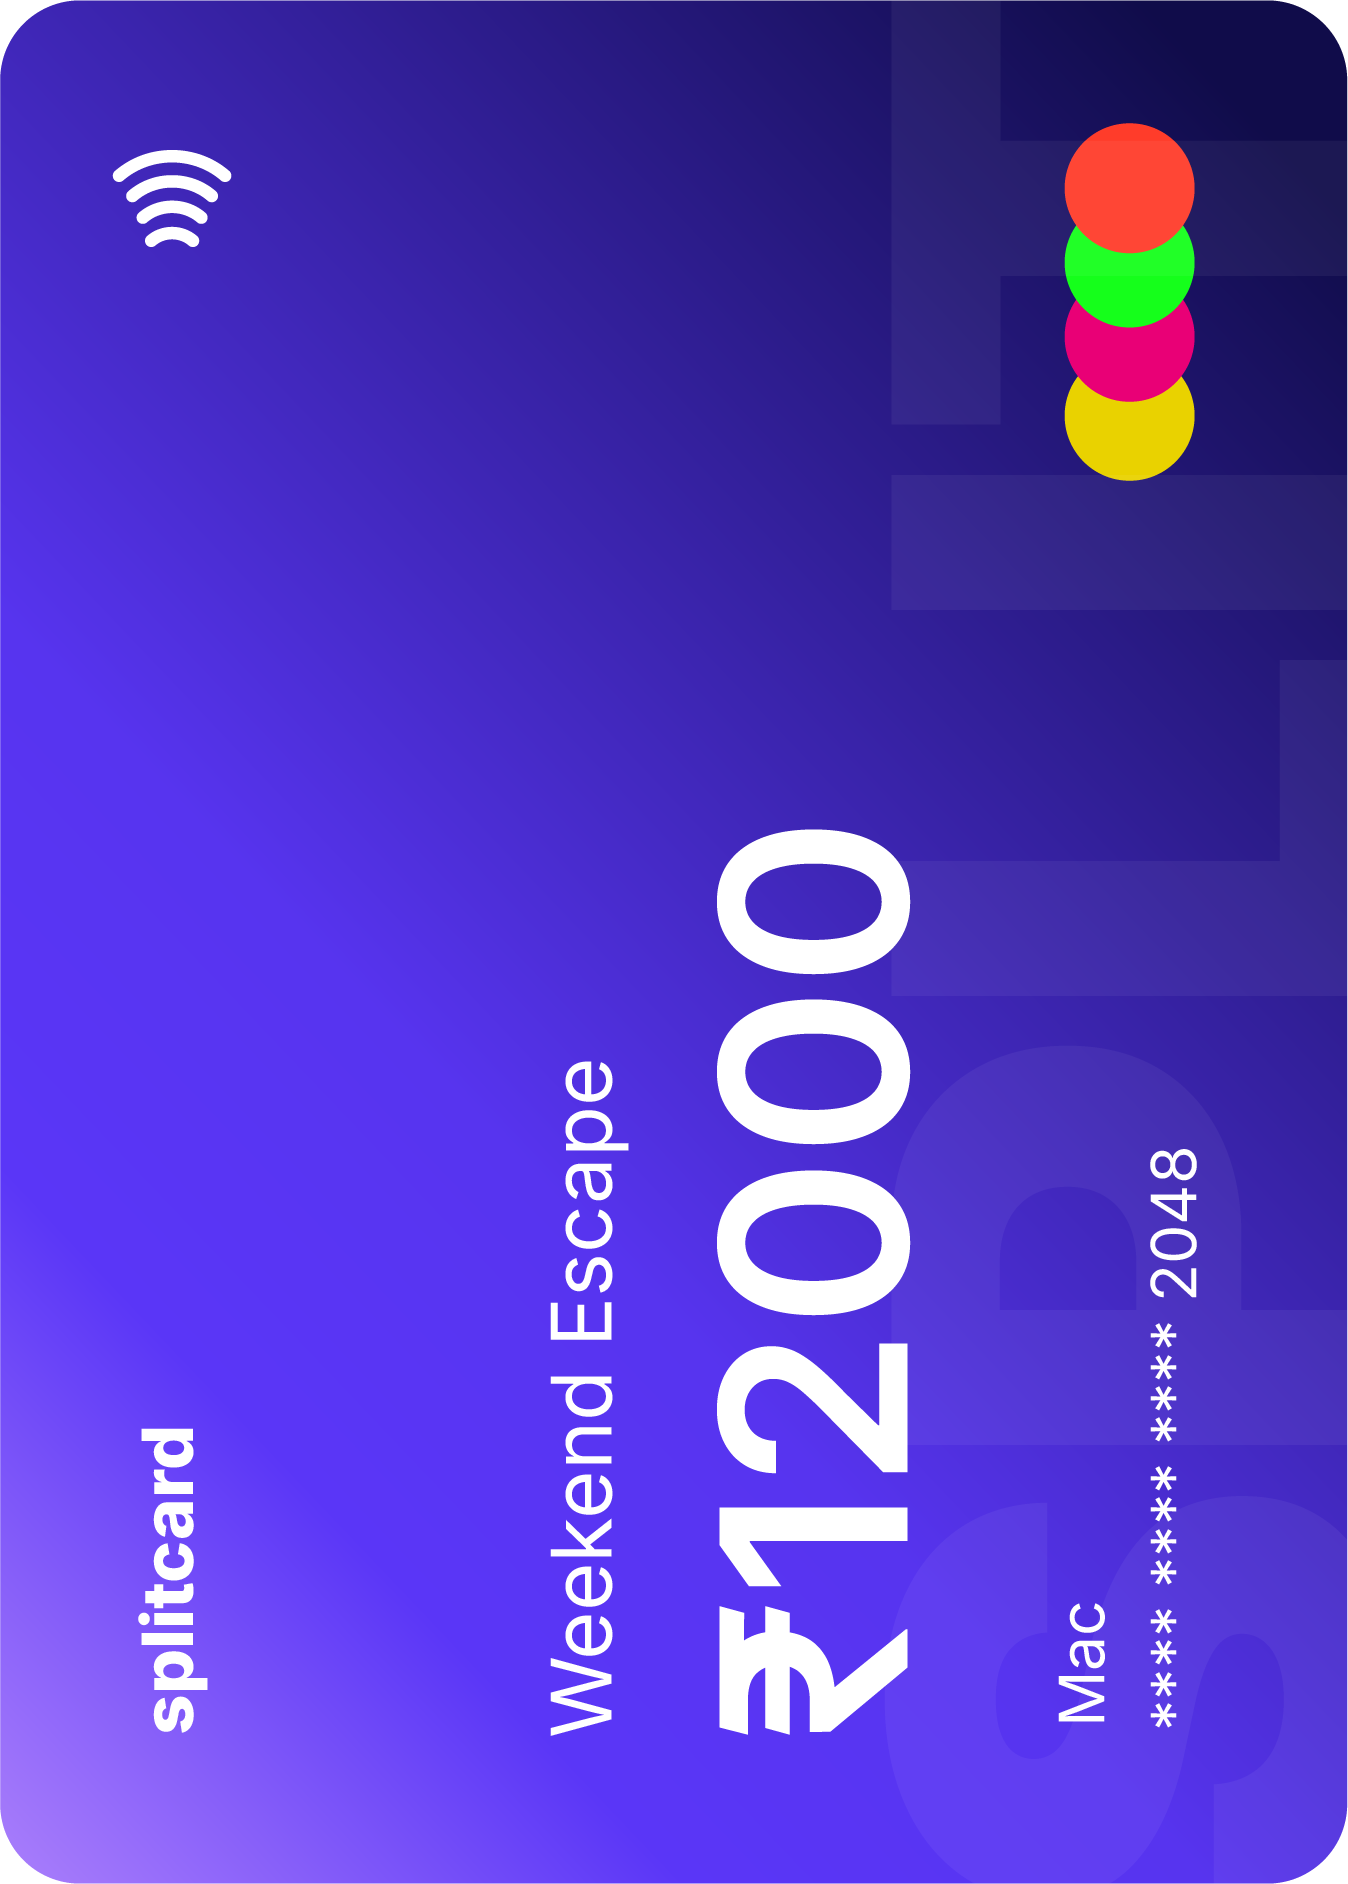
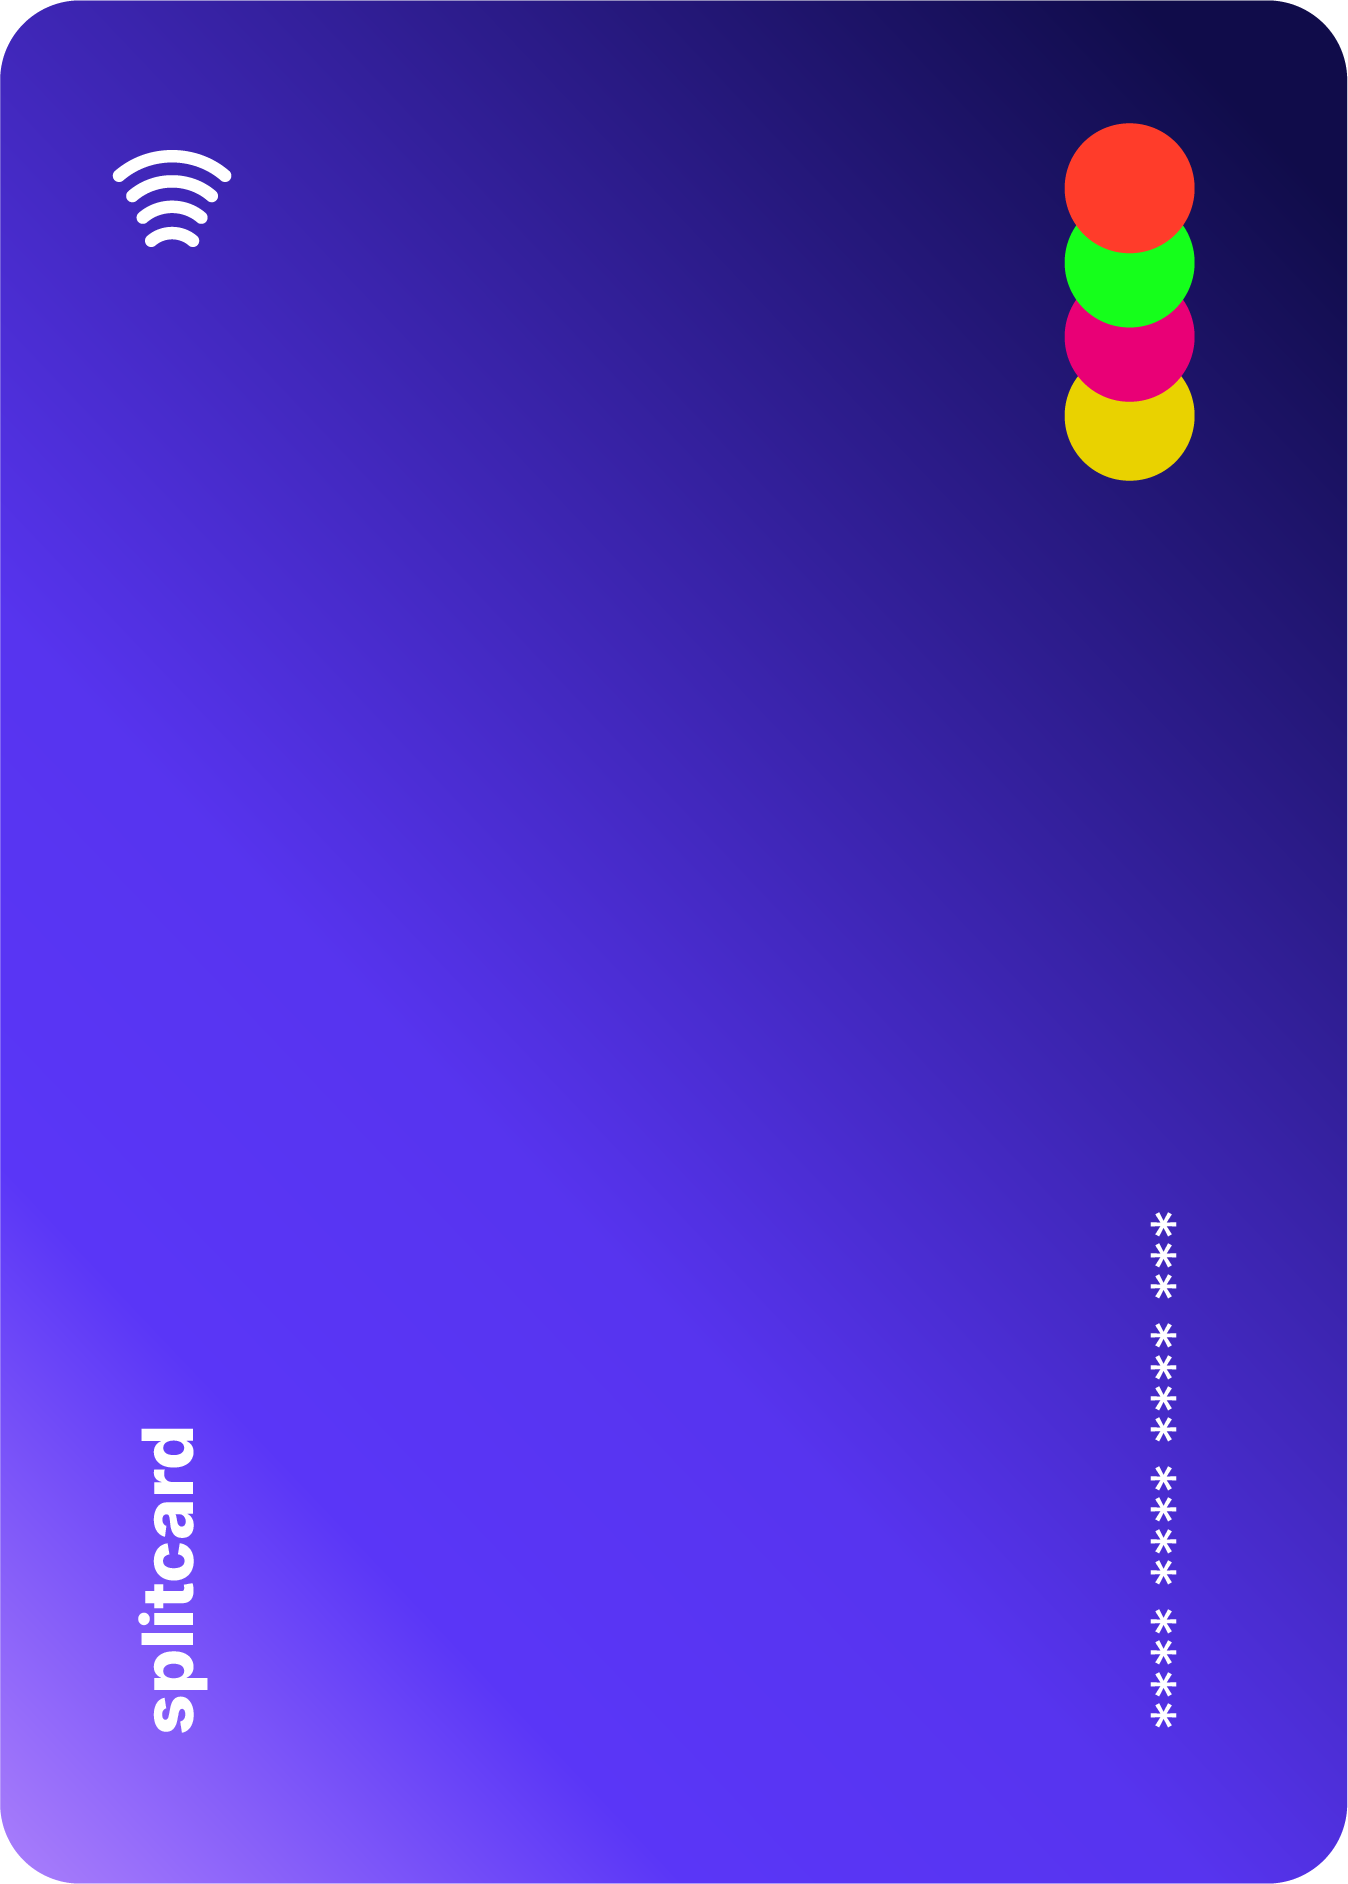
feat: -fixed card landing page scroll bug -demo card changed to better non-info

diff --git a/client/src/components/CardLandingPage.jsx b/client/src/components/CardLandingPage.jsx
@@ -1,0 +1,181 @@
+import React, { useEffect, useRef, useState } from 'react'
+import { assets, splitCardBenefits, splitCardDetails } from '../assets/assets';
+
+const CardLandingPage = () => {
+
+    const [showFloatingButton, setShowFloatingButton] = useState(false);
+    const mainButtonRef = useRef(null);
+    const rightPanelRef = useRef(null);
+
+    useEffect(() => {
+
+        if (!mainButtonRef.current) return;
+
+        const observer = new IntersectionObserver(
+            ([entry]) => {
+                setShowFloatingButton(!entry.isIntersecting);
+            },
+            {
+                threshold: 0.1,
+            }
+        );
+
+        observer.observe(mainButtonRef.current);
+
+        return () => observer.disconnect();
+
+    }, []);
+
+    useEffect(()=>{
+
+        const handlePageWheel = (e) =>{
+            const rightPanel = rightPanelRef.current;
+
+            if (!rightPanel) return;
+            if (window.innerWidth < 1024) return;
+
+            e.preventDefault();
+
+            rightPanel.scrollTop += e.deltaY * 0.7;
+        };
+
+        window.addEventListener("wheel", handlePageWheel, {
+            passive: false,
+        });
+
+        return () =>{
+            window.removeEventListener("wheel", handlePageWheel);
+        };
+
+    },[]);
+
+    return (
+        <div
+            className='w-full lg:h-full bg-gradient-to-r from-gray-900 via-indigo-900 to-indigo-900 animate-gradient 
+            flex flex-col lg:grid lg:grid-cols-2'
+        >
+
+            <div className='flex justify-center items-center py-15 '>
+
+                <div className='flex flex-col items-center gap-10'>
+
+                    <h4 className='text-center text-3xl  lg:text-4xl font-bold  text-white'>
+
+                        Spend. Split. <br />
+
+                        <span className='bg-gradient-to-r from-violet-600 to-fuchsia-500 bg-clip-text text-transparent'>
+                            Simplified.
+                        </span>
+
+                    </h4>
+
+                    <div className='relative flex items-center justify-center'>
+
+                        <div className='absolute h-52 w-52 rounded-full bg-violet-500/20 blur-3xl' />
+
+                        <img
+                            className='relative z-10 w-[200px] md:w-[250px] transition-all duration-500 ease-out 
+                            hover:-translate-y-4 hover:scale-105 hover:rotate-2'
+                            src={assets.card}
+                            alt='Digital split card'
+                        />
+
+                    </div>
+
+                    <button
+                        ref={mainButtonRef}
+                        className='group relative w-[200px] md:w-[250px] overflow-hidden rounded-2xl 
+                        bg-gradient-to-r from-violet-600 to-fuchsia-500 px-5 py-3.5 font-semibold text-white cursor-pointer'
+                    >
+                        <span className='relative z-10'>
+                            Get Started
+                        </span>
+
+                        <div className='absolute inset-0 bg-white/10 opacity-0 transition-opacity duration-300 
+                        group-hover:opacity-100' />
+
+                    </button>
+
+                </div>
+
+            </div>
+
+            <div 
+                ref={rightPanelRef} 
+                className='w-full bg-[#eeecff] p-10 flex flex-col items-center lg:overflow-y-scroll gap-5 lg:gap-2 no-scrollbar'
+            >
+
+                <div className="grid w-full max-w-sm grid-cols-2 gap-4 sm:grid-cols-3 sm:gap-5">
+
+                    {splitCardBenefits.map((benefit) => {
+                        const Icon = benefit.icon;
+
+                        return (
+                            <div
+                                key={benefit.label}
+                                className="flex flex-col items-center gap-2 rounded-xl p-3 text-center transition"
+                            >
+                                <div
+                                    className="flex h-16 w-16 items-center justify-center rounded-2xl bg-[#d4d4ff] text-2xl 
+                                    text-indigo-700 sm:h-20 sm:w-20"
+                                >
+                                    <Icon />
+                                </div>
+
+                                <span className="text-xs font-medium leading-snug text-slate-700">
+                                    {benefit.label}
+                                </span>
+                            </div>
+                        )
+                    })}
+
+                </div>
+
+                <div className='w-full max-w-sm flex flex-col gap-8 md:p-8'>
+
+                    {splitCardDetails.map((detail) => (
+
+                        <div
+                            key={detail.title}
+                            className={`w-full ${detail.bg} overflow-hidden rounded-2xl`}
+                        >
+
+                            <div className='space-y-2 p-8'>
+                                <h6 className='text-lg font-semibold leading-snug text-neutral-950'>{detail.title}</h6>
+                                <p className='text-sm leading-relaxed text-neutral-700'>{detail.description}</p>
+                            </div>
+                            <div className='w-full h-[200px] overflow-hidden'>
+                                <img src={detail.image} alt="" />
+                            </div>
+
+                        </div>
+
+                    ))}
+
+                </div>
+
+                {showFloatingButton && (
+
+                    <button
+                        className='lg:hidden group fixed bottom-20 left-1/2 z-50 w-[calc(100%-40px)] max-w-sm -translate-x-1/2 
+                        overflow-hidden rounded-2xl bg-gradient-to-r from-violet-600 to-fuchsia-500 px-5 py-4 font-semibold 
+                        text-white shadow-2xl shadow-fuchsia-900/30 transition'
+                    >
+                        <span className='relative z-10'>
+                            Get Started
+                        </span>
+
+                        <div className='absolute inset-0 bg-white/10 opacity-0 transition-opacity duration-300 
+                        group-hover:opacity-100' />
+
+                    </button>
+
+                )}
+
+            </div>
+
+        </div>
+    )
+}
+
+export default CardLandingPage

diff --git a/client/src/pages/Card.jsx b/client/src/pages/Card.jsx
@@ -1,166 +1,23 @@
-import React, { useEffect, useRef, useState } from 'react'
-import { assets, splitCardBenefits, splitCardDetails } from './../assets/assets';
+import React, { useState } from 'react'
+import CardLandingPage from '../components/CardLandingPage';
 
 const Card = () => {
 
-  const [showFloatingButton, setShowFloatingButton] = useState(false);
-  const mainButtonRef = useRef(null);
-  const rightPanelRef = useRef(null);
-
-  useEffect(()=>{
-
-    if (!mainButtonRef.current) return;
-
-    const observer = new IntersectionObserver(
-      ([entry]) => {
-        setShowFloatingButton(!entry.isIntersecting);
-      },
-      {
-        threshold: 0.1,
-      }
-    );
-
-    observer.observe(mainButtonRef.current);
-
-    return () => observer.disconnect();
-
-  },[]);
-
-  const handlePageWheel =(e)=>{
-
-    const rightPanel = rightPanelRef.current;
-
-    if (!rightPanel) return;
-    if (window.innerWidth < 1024) return;
-    
-    e.preventDefault()
-
-    rightPanel.scrollTop += e.deltaY * 0.7;
-  }
+  const [isLandingVisible, setIsLandingVisible] = useState(true)
 
   return (
 
-    <div
+    <div className='w-full h-full'>
+
+      { isLandingVisible ? (
+        <CardLandingPage/>
+      ) 
+
+      : null
+
+      }
+      </div>
       
-      className='w-full lg:h-full bg-gradient-to-r from-gray-900 via-indigo-900 to-indigo-900 animate-gradient 
-      flex flex-col lg:grid lg:grid-cols-2'
-    >
-
-      <div onWheel={handlePageWheel} className='flex justify-center items-center py-15 '>
-
-        <div className='flex flex-col items-center gap-10'>
-
-          <h4 className='text-center text-3xl  lg:text-4xl font-bold  text-white'>
-
-            Spend. Split. <br />
-
-            <span className='bg-gradient-to-r from-violet-600 to-fuchsia-500 bg-clip-text text-transparent'>
-              Simplified.
-            </span>
-
-          </h4>
-
-          <div className='relative flex items-center justify-center'>
-
-            <div className='absolute h-52 w-52 rounded-full bg-violet-500/20 blur-3xl' />
-
-            <img
-              className='relative z-10 w-[250px] transition-all duration-500 ease-out hover:-translate-y-4
-              hover:scale-105 hover:rotate-2'
-              src={assets.card}
-              alt='Digital split card'
-            />
-
-          </div>
-
-          <button
-            ref={mainButtonRef}
-            className='group relative w-[240px] overflow-hidden rounded-2xl bg-gradient-to-r from-violet-600 to-fuchsia-500
-            px-5 py-3.5 font-semibold text-white cursor-pointer'
-          >
-            <span className='relative z-10'>
-              Get Started
-            </span>
-
-            <div className='absolute inset-0 bg-white/10 opacity-0 transition-opacity duration-300 group-hover:opacity-100' />
-
-          </button>
-
-        </div>
-
-      </div>
-
-      <div ref={rightPanelRef} className='w-full bg-[#eeecff] p-10 flex flex-col items-center lg:overflow-y-scroll gap-5 lg:gap-2 no-scrollbar'>
-
-        <div className="grid w-full max-w-sm grid-cols-2 gap-4 sm:grid-cols-3 sm:gap-5">
-
-          {splitCardBenefits.map((benefit) => {
-            const Icon = benefit.icon;
-
-            return (
-              <div
-                key={benefit.label}
-                className="flex flex-col items-center gap-2 rounded-xl p-3 text-center transition"
-              >
-                <div 
-                  className="flex h-16 w-16 items-center justify-center rounded-2xl bg-[#d4d4ff] text-2xl 
-                  text-indigo-700 sm:h-20 sm:w-20"
-                >
-                  <Icon/>
-                </div>
-
-                <span className="text-xs font-medium leading-snug text-slate-700">
-                  {benefit.label}
-                </span>
-              </div>
-            )
-          })}
-          
-        </div>
-
-        <div className='w-full max-w-sm flex flex-col gap-8 md:p-8'>
-
-          {splitCardDetails.map((detail)=>(
-
-            <div 
-              key={detail.title} 
-              className={`w-full ${detail.bg} overflow-hidden rounded-2xl`}
-            >
-
-              <div className='space-y-2 p-8'>
-                <h6 className='text-lg font-semibold leading-snug text-neutral-950'>{detail.title}</h6>
-                <p className='text-sm leading-relaxed text-neutral-700'>{detail.description}</p>
-              </div>
-              <div className='w-full h-[200px] overflow-hidden'>
-                <img src={detail.image} alt="" />
-              </div>
-
-            </div>
-
-          ))}
-
-        </div>
-
-        {showFloatingButton && (
-
-          <button
-            className='lg:hidden group fixed bottom-20 left-1/2 z-50 w-[calc(100%-40px)] max-w-sm -translate-x-1/2 overflow-hidden 
-            rounded-2xl bg-gradient-to-r from-violet-600 to-fuchsia-500 px-5 py-4 font-semibold text-white shadow-2xl 
-            shadow-fuchsia-900/30 transition'
-          >
-            <span className='relative z-10'>
-              Get Started
-            </span>
-
-            <div className='absolute inset-0 bg-white/10 opacity-0 transition-opacity duration-300 group-hover:opacity-100' />
-
-          </button>
-
-        )}
-
-      </div>
-
-    </div>
   )
 }
 